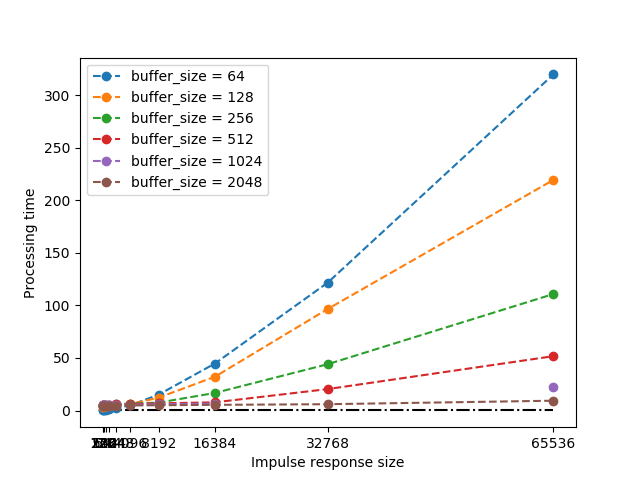
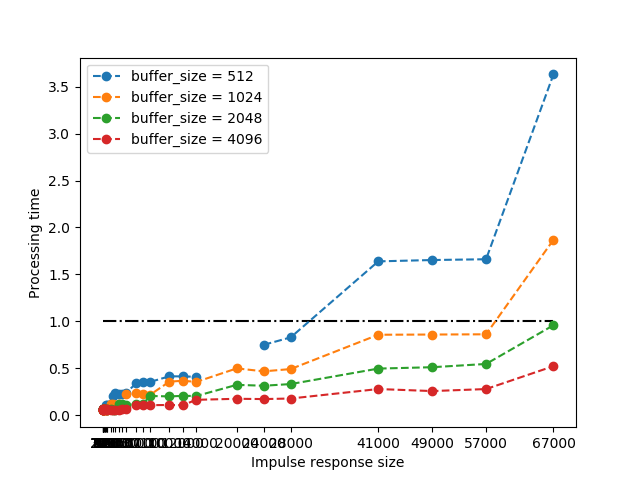
figs plotted

diff --git a/out/analyze.py b/out/analyze.py
@@ -1,33 +1,25 @@
 import os
+import numpy as np
 import pandas as pd
 import matplotlib.pyplot as plt
-
-import fileinput
-
 
 
 def main():
     fs = 44100
     Ts = 1/fs
 
-    suffix = "_tmp"
+    suffix = "_f"
 
     rows_fname = "rows_buffs_size" + suffix + ".csv"
     cols_fname = "cols_irs_size" + suffix + ".csv"
     buffs_fname = "n_proc_buffers" + suffix + ".csv"
     proc_fname = "proc_duration" + suffix + ".csv"
 
-    # Pre-processing to remove unwanted last comma
-    # (more easy to remove here than in c++)
-    pre_process(rows_fname)
-    pre_process(cols_fname)
-    pre_process(buffs_fname)
-    pre_process(proc_fname)
-
-    rows = pd.read_csv(rows_fname, header=None).to_numpy()
-    cols = pd.read_csv(cols_fname, header=None).to_numpy()
-    buffs_n = pd.read_csv(buffs_fname, header=None).to_numpy()
-    proc = pd.read_csv(proc_fname, header=None).to_numpy()
+    # [:, :-1] Remove last value caused by trailing comma
+    rows = pd.read_csv(rows_fname, header=None).to_numpy()[:, :-1]
+    cols = pd.read_csv(cols_fname, header=None).to_numpy()[:, :-1]
+    buffs_n = pd.read_csv(buffs_fname, header=None).to_numpy()[:, :-1]
+    proc = pd.read_csv(proc_fname, header=None).to_numpy()[:, :-1]
 
     print(rows)
     print('\n')
@@ -38,11 +30,21 @@ def main():
     print(proc)
     print('\n')
 
+    proc[proc <= 0] = np.nan
+
     plt.figure()
-    for i, p in enumerate(proc):
+    for i in range(2, len(proc)):
+        p = proc[i]
         buff_size = rows[0, i]
+        print(buff_size*Ts)
         plt.plot(cols.T, p/(buff_size*Ts), '--o',
-                 label="buffer_size = {}".format(buff_size))
+                 label="buffer_size = {:.0f}".format(buff_size))
+
+    # plt.figure()
+    # for i, p in enumerate(proc):
+    #     buff_size = rows[0, i]
+    #     plt.plot(cols.T, p/(buff_size*Ts), '--o',
+    #              label="buffer_size = {:.0f}".format(buff_size))
 
     plt.hlines(1, xmin=cols[0, 0], xmax=cols[0, -1], linestyles='dashdot')
 
@@ -54,12 +56,6 @@ def main():
     plt.savefig(os.path.join('../img/', 'graph' + suffix + '_tmp.png'))
     plt.show()
 
-
-def pre_process(csv_path):
-
-    for line in fileinput.input(csv_path, inplace=True):
-        # The standard output is redirected to the original file within the loop
-        print('{}'.format(line.rstrip(',;\n')), end='\n') # for Python 3
 
 if __name__ == "__main__":
     main()

diff --git a/src/main_timeit.cpp b/src/main_timeit.cpp
@@ -28,17 +28,18 @@ int main(int argc, char *argv[])
   char ir_path[] = "./data/impres";
 
   // Callback executed between input and ouput buffer
-  RtAudioCallback ptr_callback = &reverb_f;
+  RtAudioCallback ptr_callback = &reverb_t;
 
   // Parameters to analyse processing time
   int n_buffers = 100; // Number of buffer per point
   unsigned int buffs_size[] = {128, 256, 512, 1024, 2048, 4096};
-  unsigned long irs_size[] = {300, 340, 380, 420, 460, 580, 660, 740,
-                              820, 900, 1200, 1400, 1600, 1800, 2000, 2300,
-                              2600, 2900, 3200, 3500, 4800, 5500, 6200, 6900,
-                              7600, 9000, 10000, 11000, 12000, 13000, 19000,
-                              22000, 25000, 28000, 31000, 38000, 43000, 48000,
-                              53000, 58000, 80000, 90000, 100000, 110000, 120000};
+  // unsigned int buffs_size[] = {128, 256};
+  unsigned long irs_size[] = {80, 100, 120, 160, 190, 220, 320,
+                              380, 440, 600, 700, 800, 1300, 1600,
+                              1900, 2500, 3000, 3500, 5100, 6100, 7100,
+                              10000, 12000, 14000, 20000, 24000, 28000, 41000,
+                              49000, 57000, 67000};
+
   int n_buff_size = sizeof(buffs_size) / sizeof(buffs_size[0]);
   int n_ir_size = sizeof(irs_size) / sizeof(irs_size[0]);
 
@@ -216,8 +217,8 @@ int main(int argc, char *argv[])
       data.Hr = NULL;
       free(data.Hi);
       data.Hi = NULL;
-      free(data.stats);
-      data.stats = NULL;
+      // free(data.stats);
+      // data.stats = NULL;
     }
   }
 

diff --git a/out/gen_buff_size_space.py b/out/gen_buff_size_space.py
@@ -12,7 +12,7 @@ def main():
     print('\nDifférences:')
     pprint(diff)
 
-    n_pts_per_intvl = 5
+    n_pts_per_intvl = 3
     step = (diff/(n_pts_per_intvl+1)).astype(np.int)
 
     print('\nStep:')
